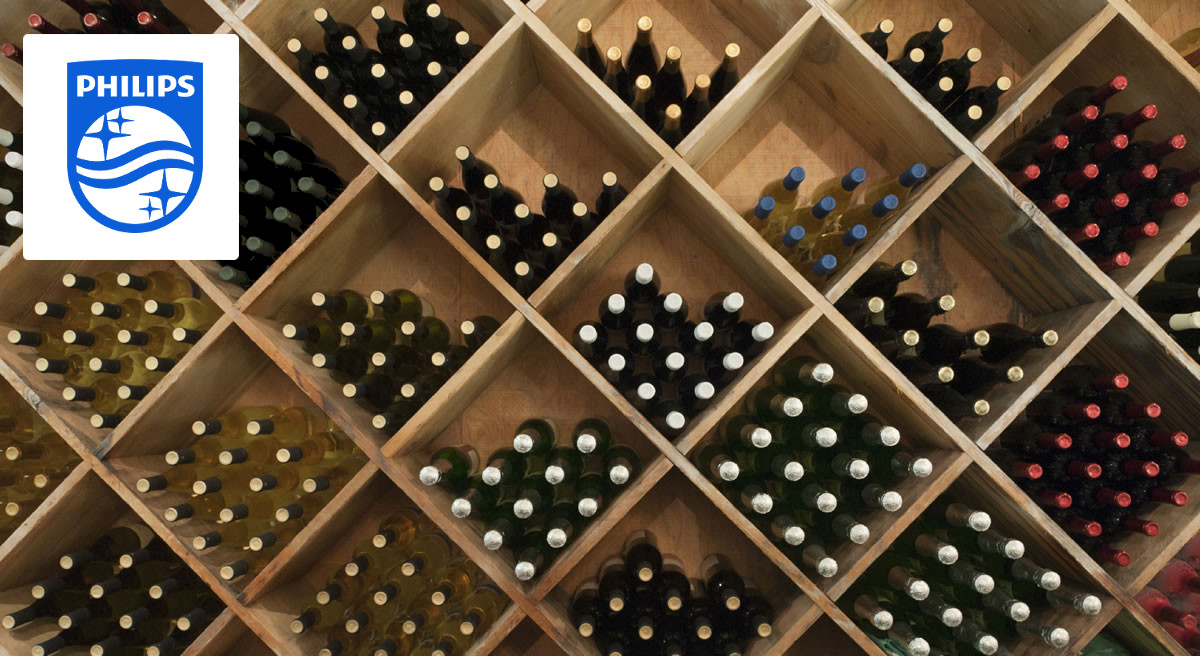
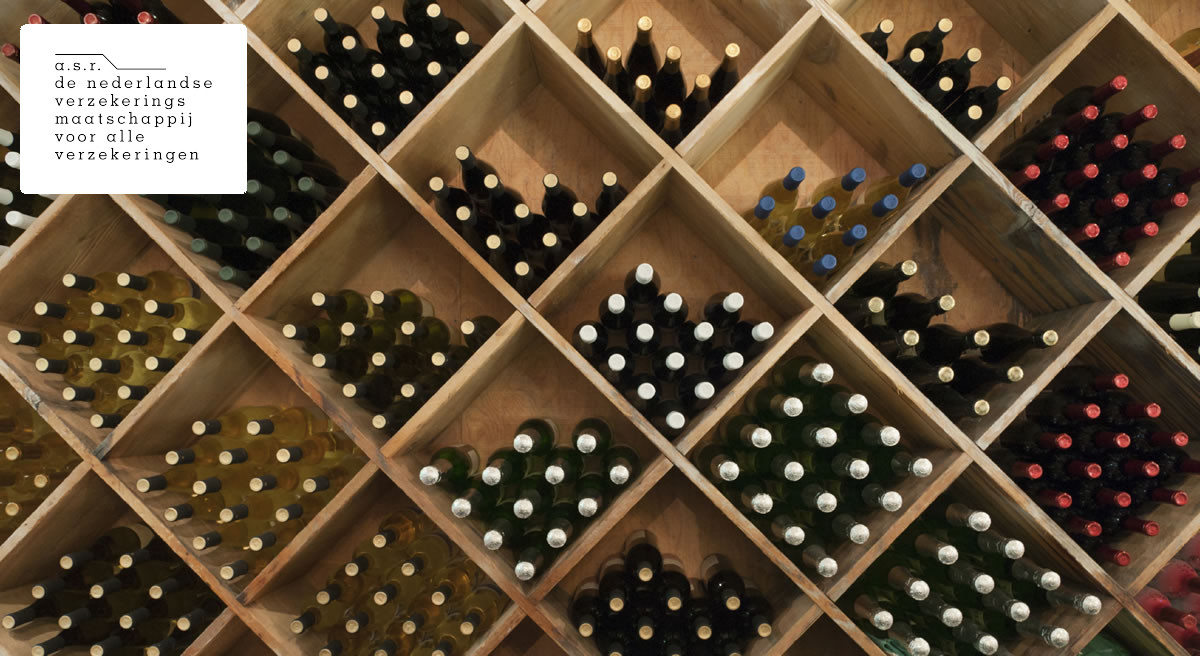
a.s.r demo

Changed region(s): [[0.0, 0.0305, 0.2158, 0.3963]]

diff --git a/public/tpl/HomeView.html b/public/tpl/HomeView.html
@@ -1,7 +1,7 @@
 <div class="home-hero">
-            <h1>Welcome to the Philips demo winestore</h1>
-	    <h1>A demo for Philips</h1>
-            <h3>A sample application built with Backbone.js, Twitter Bootstrap, Node.js, Express, and MongoDB</h3>
+            <h1>Welcome to the a.s.r demo shop</h1>
+	    <h1>A demo for a.s.r</h1>
+            <h3>A sample multi-tier application end-to-end deployed on the SBP Mission Critical Cloud</h3>
 
     <br/>
     <div style="opacity: .9;">
